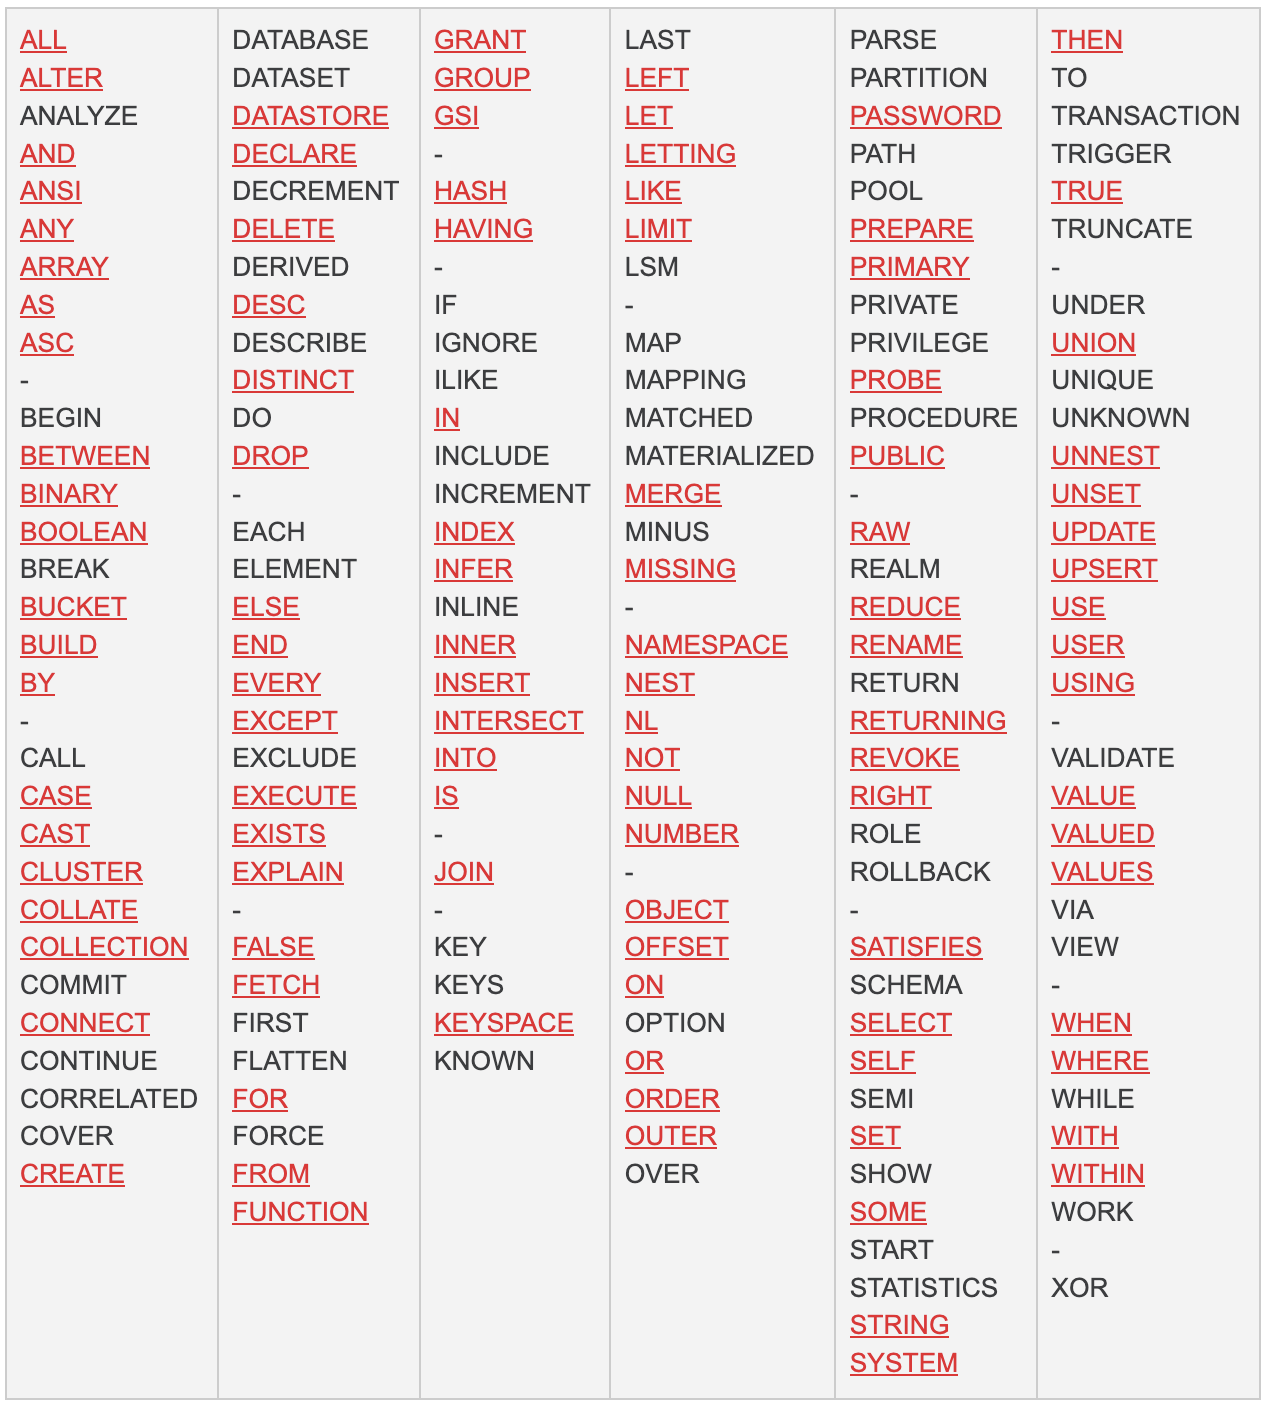
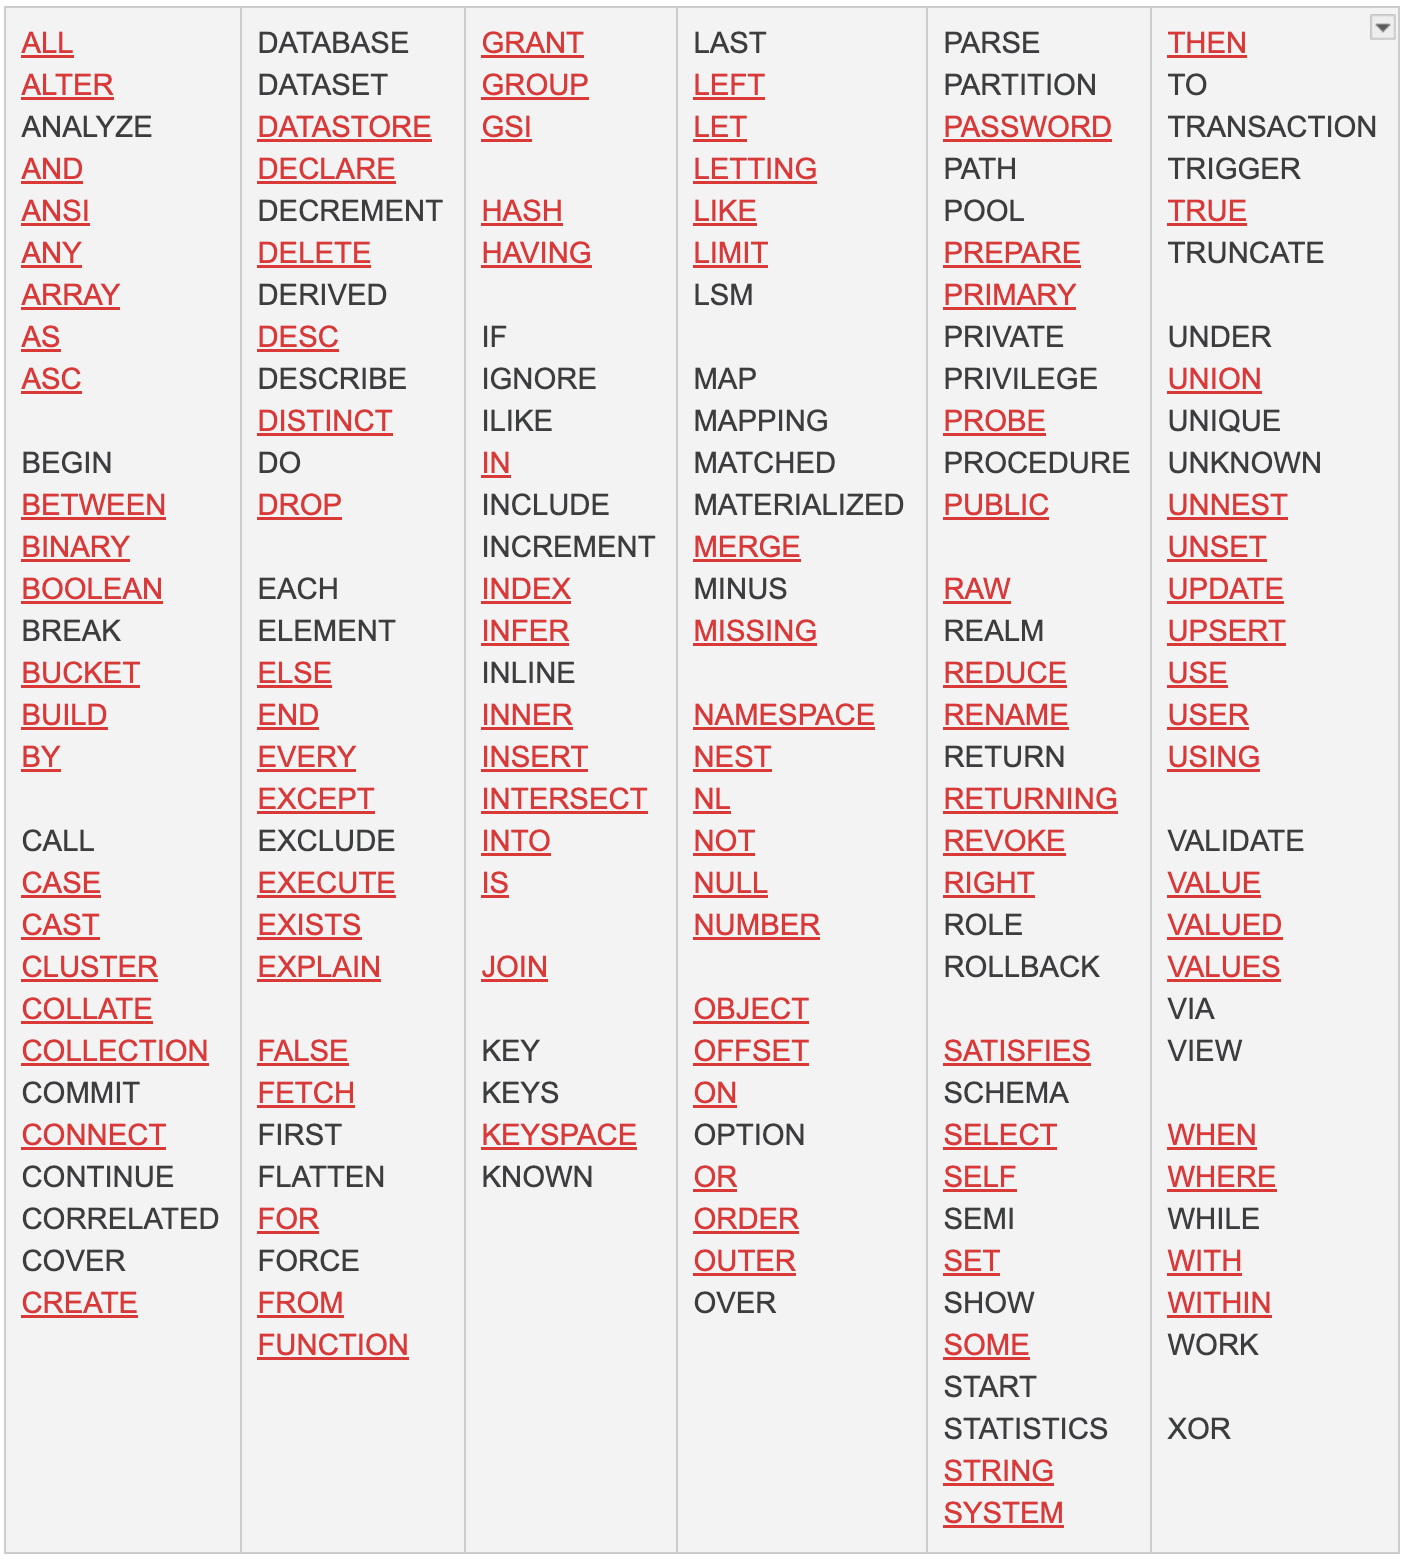
Reserved words explanation

diff --git a/docs/portfolio/before-and-after.md b/docs/portfolio/before-and-after.md
@@ -13,7 +13,7 @@ For a list of items that had a measurable impact, see the **[most impactful UX/U
 
 | Before (Apr 2018) | After (May 2018) |
 |-------------------|------------------|
-| Couchbase's list of reserved words fit on one page. | Over time, we added many words and needed a new way to display them. |
+| Couchbase's reserved words were listed horizontally. | I moved the words to be listed vertically with space between initial letters. |
 | ![Before](../../static/img/Couchbase_Reserved-words_BEFORE.png) | ![After](../../static/img/Couchbase_Reserved-words_AFTER.png) |
 
 ### Color-coded system table
